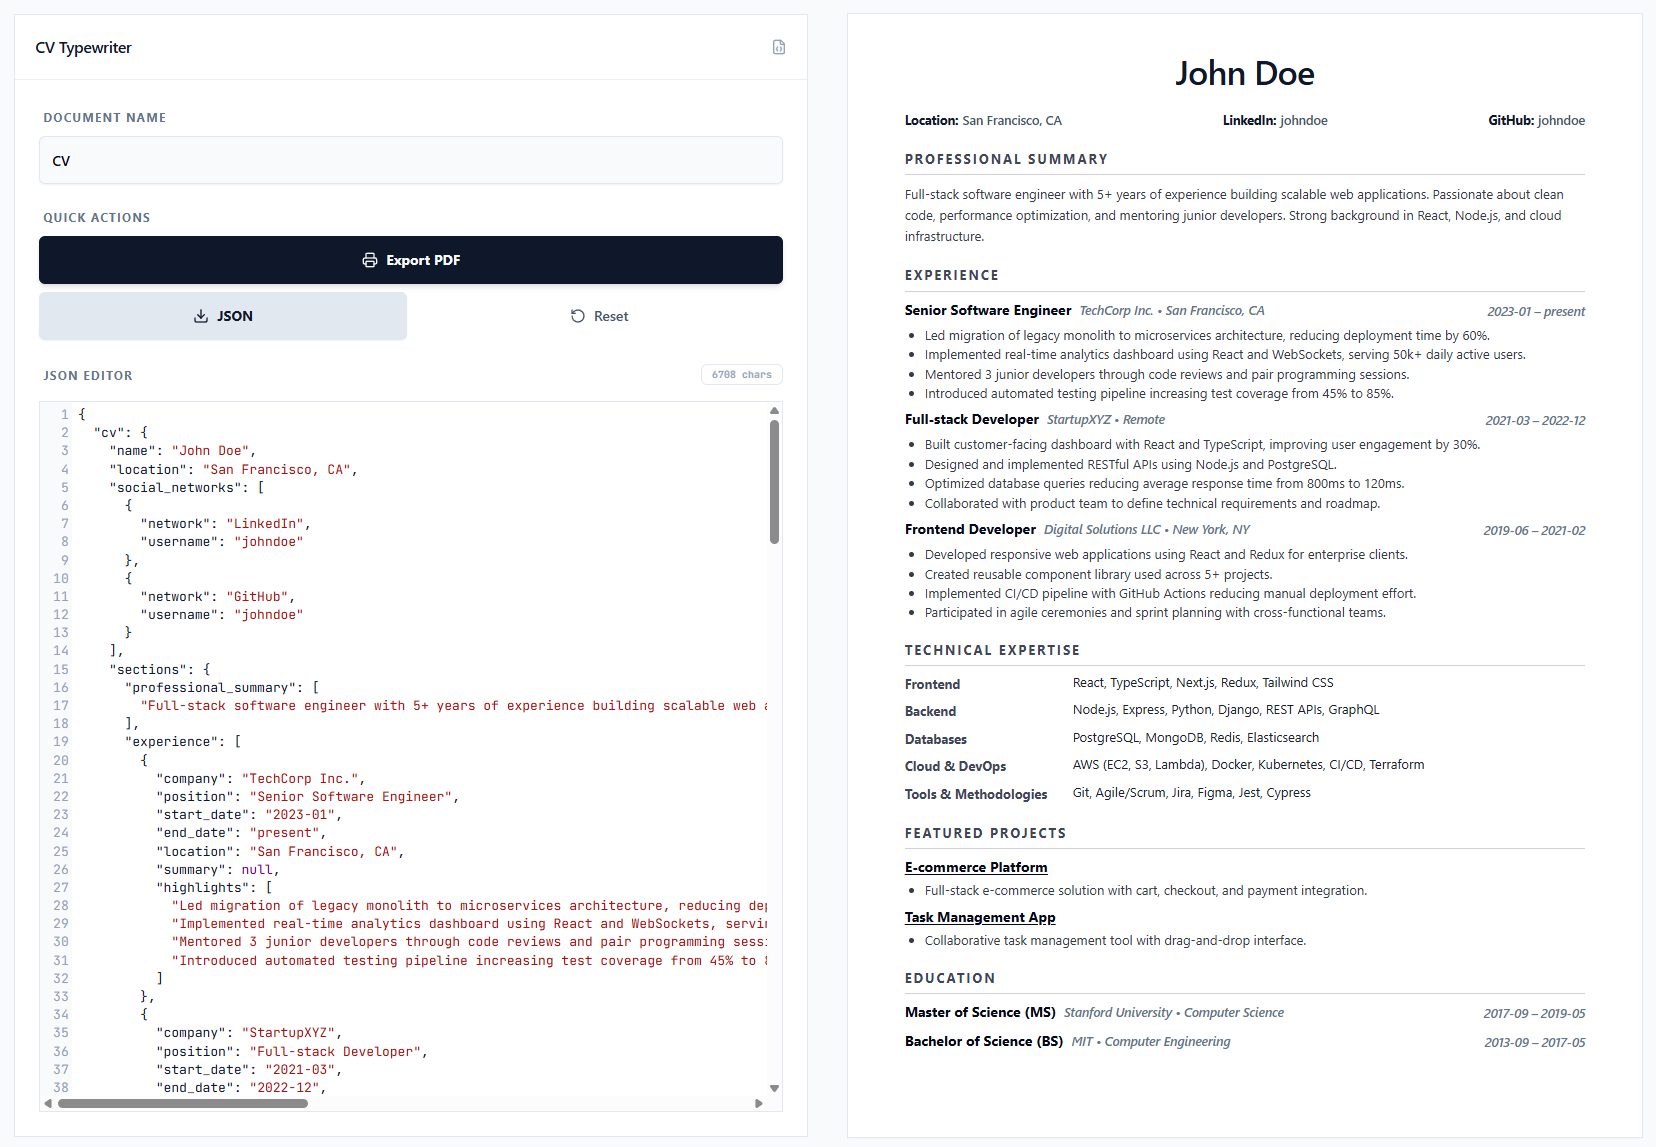
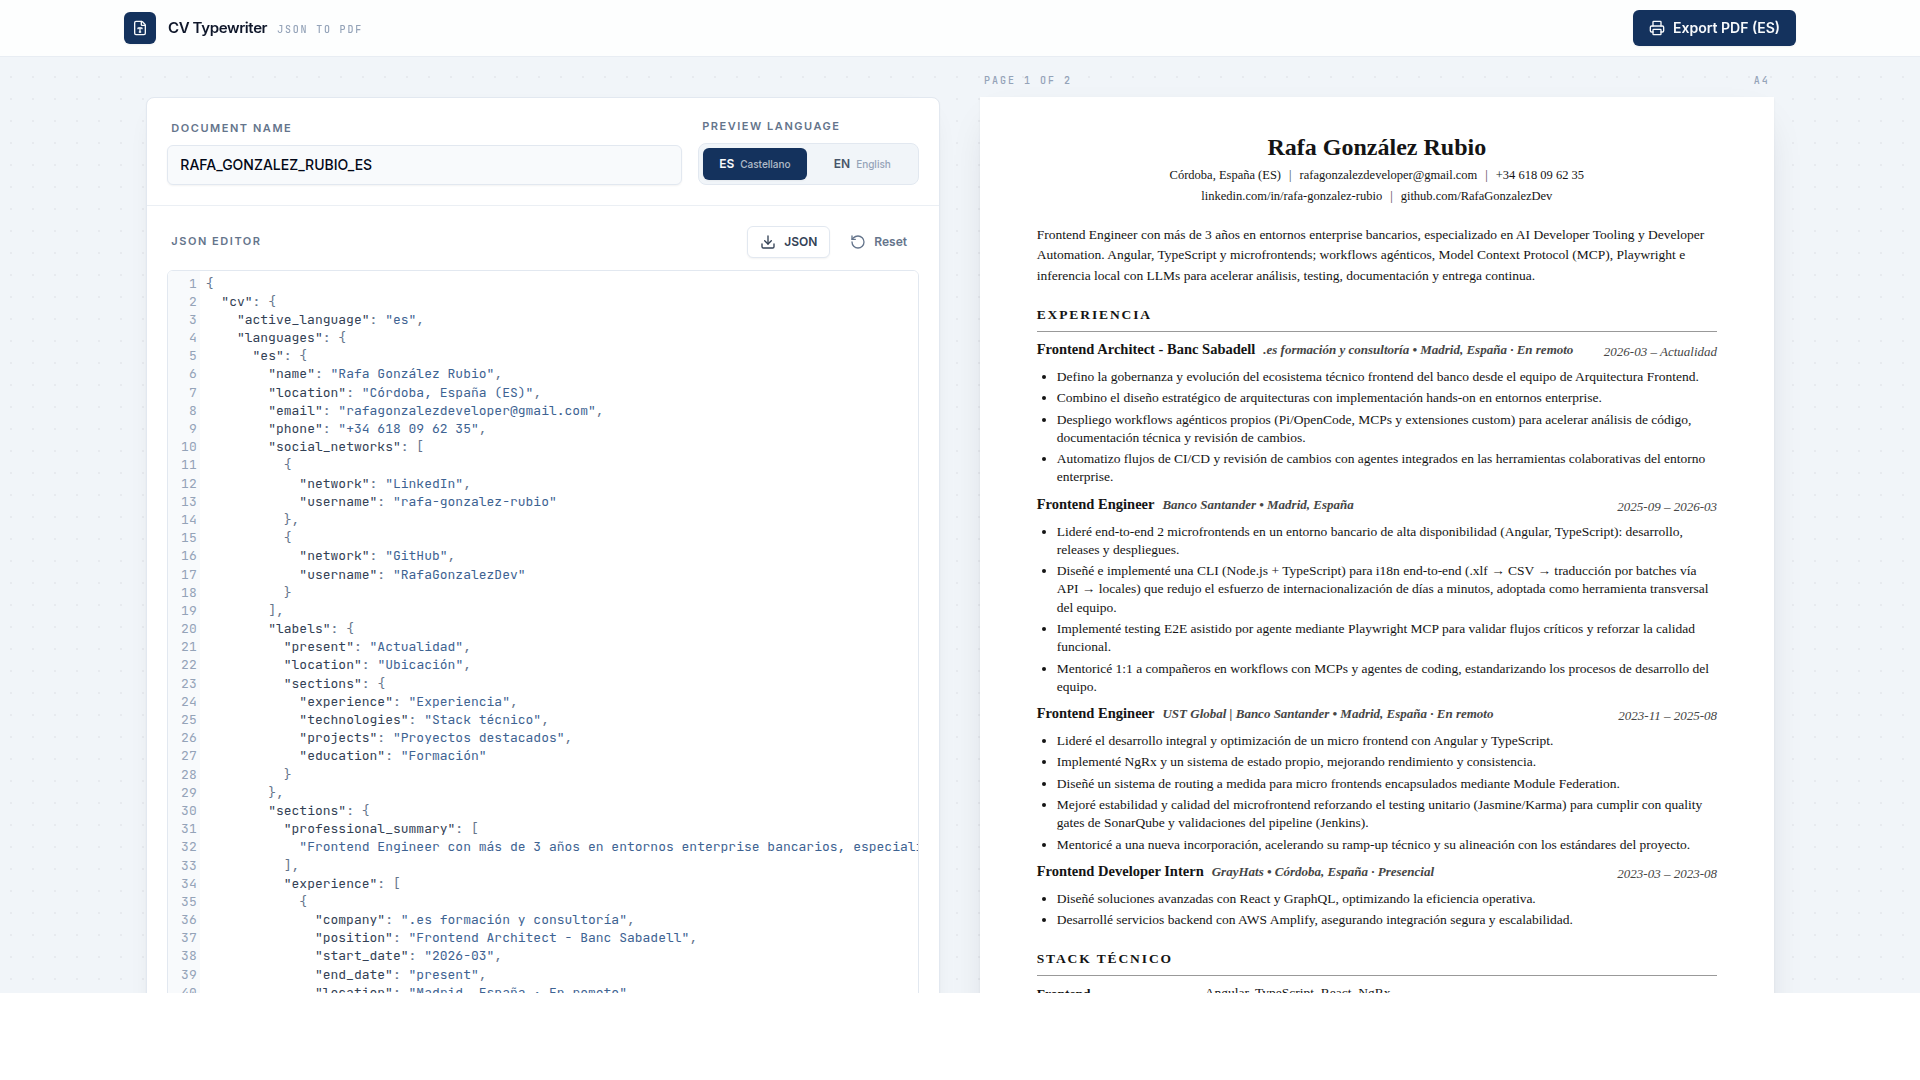
docs(readme): refresh preview and layout wording
Regenerate preview.png against the redesigned workspace and
Harvard-style CV, and align the layout highlight with the new
document design.

diff --git a/README.md b/README.md
@@ -15,7 +15,7 @@ CV Typewriter is a data-first CV editor for maintaining a professional resume as
 
 - **Data-first CV content**: maintain the CV as JSON instead of coupling content to layout.
 - **Bilingual preview**: switch between Spanish and English CV variants from the editor panel.
-- **Oxford-inspired resume layout**: compact header, minimal section treatment, and readable hierarchy.
+- **Harvard-style resume layout**: serif document typography, compact two-row contact header, minimal section treatment and readable hierarchy.
 - **A4 print preview**: render fixed-size A4 pages in the browser before exporting.
 - **Smart pagination**: measure content blocks and avoid awkward page splits across entries and technical sections.
 - **PDF export**: export the selected language variant through the browser print-to-PDF flow.
